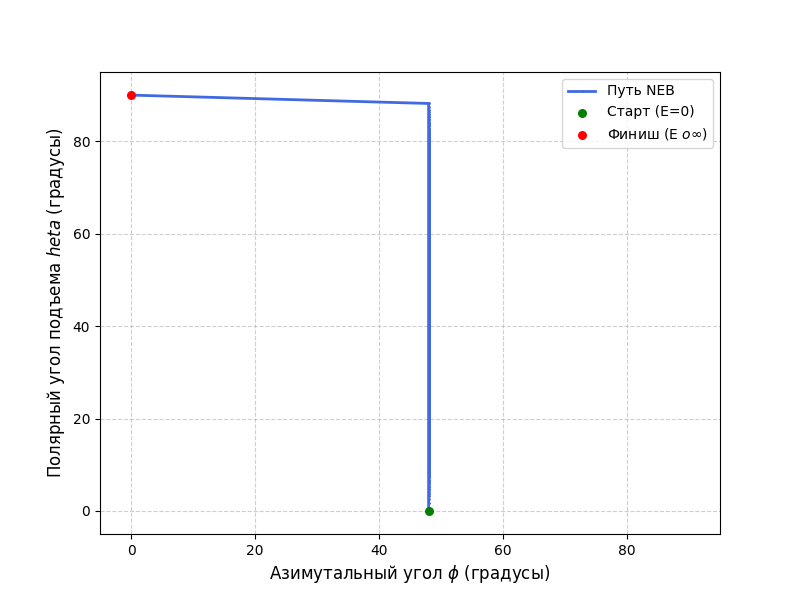
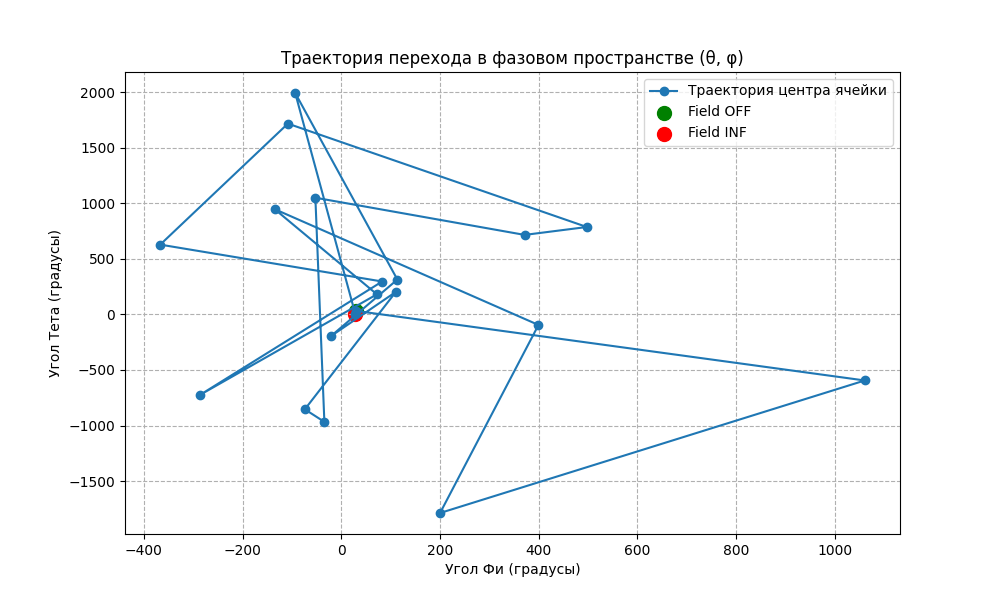
again

diff --git a/small talk/normalcode15.py b/small talk/normalcode15.py
@@ -1,109 +1,28 @@
 import numpy as np
-import matplotlib.pyplot as plt
 
-# Параметры сетки
-Nx, Ny, Nz = 8, 8, 16  # Увеличим разрешение по Z для гладкости профиля
-S_0 = 1.0              # Скалярный параметр порядка
+#Коэффициенты Франка
+K1=1
+K2=1
+K3=1
 
-# Граничные углы директора на подложках
-# Нижняя подложка (z = 0): лежит в плоскости вдоль X (theta=0, phi=0)
-theta_bottom, phi_bottom = 0.0, 0.0
-# Верхняя подложка (z = Nz-1): лежит в плоскости вдоль Y (theta=0, phi=pi/2)
-theta_top, phi_top = 0.0, np.pi / 2
+#Размер ячейки:
+Lx=1
+Ly=1
+Lz=100
+d=1 # шаг сетки
 
-def angles_to_Q_components(theta, phi, S=S_0):
-    """Преобразует физические углы theta и phi в 5 компонент тензора Q"""
-    nx = np.cos(theta) * np.cos(phi)
-    ny = np.cos(theta) * np.sin(phi)
-    nz = np.sin(theta)
-    
-    Qxx = S * (nx*nx - 1.0/3.0)
-    Qyy = S * (ny*ny - 1.0/3.0)
-    Qxy = S * (nx*ny)
-    Qxz = S * (nx*nz)
-    Qyz = S * (ny*nz)
-    return np.array([Qxx, Qyy, Qxy, Qxz, Qyz])
+A=10 #Коэффициент для силы, направленной вдоль оси OX и находящейся на нижней плоскости (z=0)
+B=20 #Коэффициент для силы, направленной вдоль оси OY и находящейся на верхней плоскости (z=max)
+S=1 #Параметр порядка
 
-def Q_to_angles(Q_vector, S=S_0):
-    """Преобразует 5 компонент тензора Q обратно в углы theta и phi"""
-    Qxx, Qyy, Qxy, Qxz, Qyz = Q_vector
-    Qzz = -(Qxx + Qyy)
-    
-    # Расчет азимутального угла phi
-    phi = 0.5 * np.arctan2(2.0 * Qxy, Qxx - Qyy)
-    
-    # Расчет полярного угла theta (с ограничением под аргументом арксинуса от ошибок округления)
-    sin2_theta = Qzz / S + 1.0 / 3.0
-    sin2_theta = np.clip(sin2_theta, 0.0, 1.0)
-    theta = np.arcsin(np.sqrt(sin2_theta))
-    
-    return theta, phi
 
-# --- 1. ГЕНЕРАЦИЯ ГРАНИЧНЫХ СОСТОЯНИЙ ДЛЯ NEB ---
-Q_start_3d = np.zeros((Nx, Ny, Nz, 5))
-Q_end_3d = np.zeros((Nx, Ny, Nz, 5))
+x = np.arange(0, Lx, d)
+y = np.arange(0, Ly, d)
+z = np.arange(0, Lz, d)
+X, Y, Z = np.meshgrid(x, y, z, indexing='ij')
 
-for z_idx in range(Nz):
-    # Доля расстояния от нижней пластины (от 0.0 до 1.0)
-    fraction = z_idx / (Nz - 1)
-    
-    # НАЧАЛЬНОЕ СОСТОЯНИЕ (Поле E = 0): 
-    # Директор плавно закручивается от оси X к оси Y, оставаясь в плоскости пластин (theta = 0)
-    th_start = 0.0
-    ph_start = phi_bottom + fraction * (phi_top - phi_bottom)
-    Q_start_3d[:, :, z_idx, :] = angles_to_Q_components(th_start, ph_start)
-    
-    # КОНЕЧНОЕ СОСТОЯНИЕ (Поле E -> бесконечность):
-    # В объеме директор встает строго вертикально (theta = pi/2). 
-    # На самых границах сильное сцепление удерживает углы подложек.
-    if z_idx == 0:
-        th_end, ph_end = theta_bottom, phi_bottom
-    elif z_idx == Nz - 1:
-        th_end, ph_end = theta_top, phi_top
-    else:
-        th_end = np.pi / 2  # Молекулы встали по полю вдоль Z
-        ph_end = 0.0        # При вертикальной ориентации азимутальный угол вырождается
-        
-    Q_end_3d[:, :, z_idx, :] = angles_to_Q_components(th_end, ph_end)
+grad_E_x, grad_E_y, grad_E_z = np.gradient(E, dx, dy, dz)
 
-# --- 2. ЭМУЛЯЦИЯ РЕЗУЛЬТАТА МЕТОДА NEB ---
-# (В реальном расчете здесь вызывается функция run_3d_lc_neb из прошлого ответа)
-# Для демонстрации построения траектории создадим промежуточные имиджи интерполяцией
-num_images = 1000
-# Форма пути: (num_images + 2, Nx, Ny, Nz, 5)
-simulated_path = np.array([Q_start_3d + (Q_end_3d - Q_start_3d) * (i / (num_images + 1)) for i in range(num_images + 2)])
 
-# --- 3. ИЗВЛЕЧЕНИЕ ТРАЕКТОРИИ ДЛЯ ЗАДАННОГО Z ---
-# Задаем индекс координаты z (например, середина слоя ячейки)
-z_target_idx = Nz // 2 
-# Выберем центральный узел по осям X и Y (в однородной по площади задаче они эквивалентны)
-x_target, y_target = Nx // 2, Ny // 2
+def SurfaceEnergy(A, B, tetaA, phiA, tetaB, phiB, S):
 
-theta_trajectory = []
-phi_trajectory = []
-
-# Проходим по всем имиджам упругой ленты (от начального до конечного)
-for img_idx in range(num_images + 2):
-    Q_at_point = simulated_path[img_idx, x_target, y_target, z_target_idx, :]
-    theta, phi = Q_to_angles(Q_at_point)
-    
-    theta_trajectory.append(np.degrees(theta))
-    phi_trajectory.append(np.degrees(phi))
-
-# --- 4. ВИЗУАЛИЗАЦИЯ ТРАЕКТОРИИ ПЕРЕХОДА ---
-plt.figure(figsize=(8, 6))
-
-# Измените 'o-' на '-' (чтобы убрать маркеры у линии) или добавьте ms=4 для уменьшения точек линии
-plt.plot(phi_trajectory, theta_trajectory, 'o-', color='royalblue', linewidth=2, ms=1, label='Путь NEB')
-
-# Параметр s=30 делает маркеры начального и конечного состояний значительно меньше (было 150)
-plt.scatter(phi_trajectory[0], theta_trajectory[0], color='green', s=30, zorder=5, label='Старт (E=0)')
-plt.scatter(phi_trajectory[-1], theta_trajectory[-1], color='red', s=30, zorder=5, label='Финиш (E $\to \infty$)')
-
-plt.xlabel('Азимутальный угол $\phi$ (градусы)', fontsize=12)
-plt.ylabel('Полярный угол подъема $\theta$ (градусы)', fontsize=12)
-plt.xlim(-5, 95)
-plt.ylim(-5, 95)
-plt.grid(True, linestyle='--', alpha=0.6)
-plt.legend(loc='best')
-plt.savefig('norm.png')
